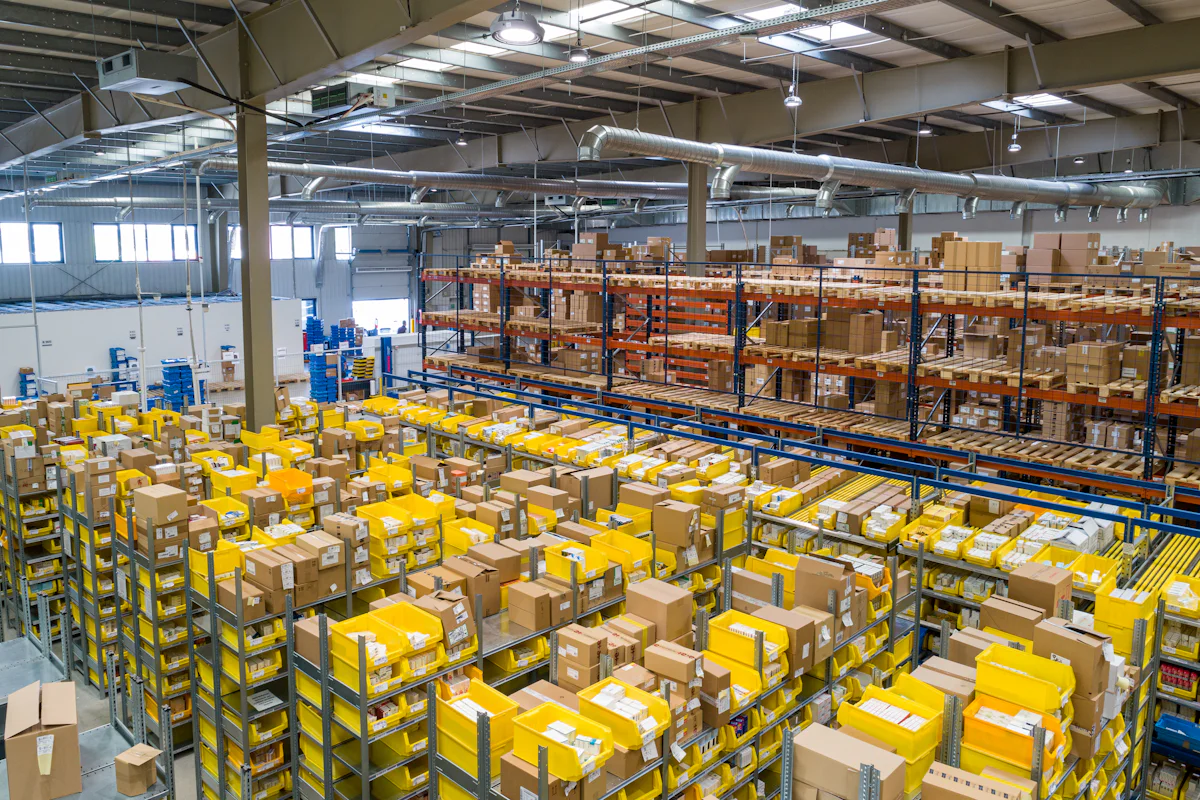
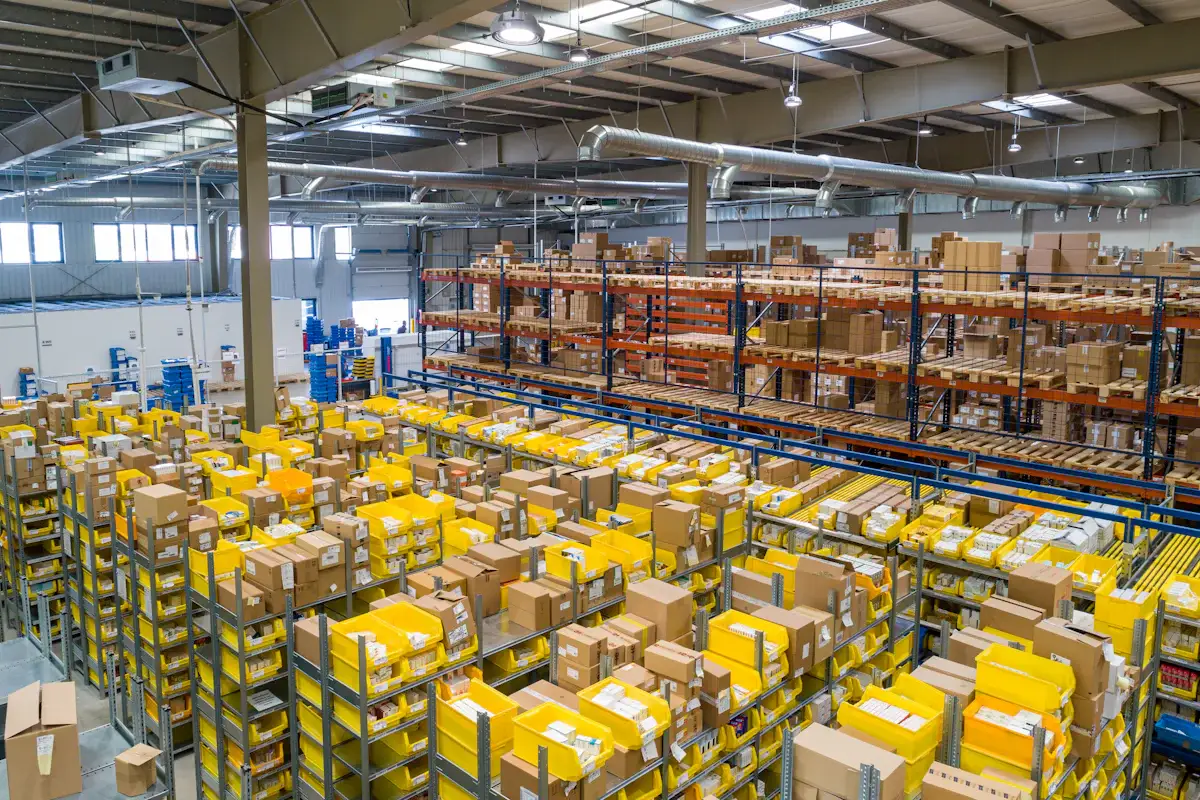
perf: cut LCP/render-blocking weight from third-party JS and images
- Defer Google Tag Manager until after load/idle instead of firing at
  the top of <head>, so it stops competing with the hero image and
  critical CSS for bandwidth on first paint.
- Merge the Home route's two separate Google Places cache reads
  (reviews + rating) into one.
- Recompress the hero and tentang-operasional WebP images (quality was
  far higher than needed for photos hidden behind a dark overlay) and
  right-size the navbar logo, cutting hero payload by ~30-45%.
- Cap ImageConverter's upload resize width per field instead of a
  single global 1600px, and lower Advantages card uploads to 1300px
  (roughly 2x their ~651px display width) — the cards were shipping
  1600px-wide photos PageSpeed flagged as the single biggest transfer
  hog on the page.

diff --git a/resources/js/Pages/Home.jsx b/resources/js/Pages/Home.jsx
@@ -12,22 +12,13 @@ import {
   FaqSkeleton,
 } from "../Components/Skeletons/SectionSkeletons";
 
-// Below-fold sections are lazy-loaded so they don't block initial render.
-// motion (RotatingText) and Three.js are excluded from the
-// critical bundle this way — only downloaded after the hero is painted.
 const ScrollReveal = lazy(() => import("../Components/ReactBits/ScrollReveal"));
 const AboutSection = lazy(() => import("../Components/Sections/About"));
-const AdvantagesSection = lazy(
-  () => import("../Components/Sections/Advantages"),
-);
+const AdvantagesSection = lazy(() => import("../Components/Sections/Advantages"));
 const ServicesSection = lazy(() => import("../Components/Sections/Services"));
-const ProcessTimeline = lazy(
-  () => import("../Components/Sections/ProcessTimeline"),
-);
+const ProcessTimeline = lazy(() => import("../Components/Sections/ProcessTimeline"));
 const CoverageMap = lazy(() => import("../Components/Sections/CoverageMap"));
-const TestimonialsSection = lazy(
-  () => import("../Components/Sections/Testimonials"),
-);
+const TestimonialsSection = lazy(() => import("../Components/Sections/Testimonials"));
 const FaqSection = lazy(() => import("../Components/Sections/FAQ"));
 
 export default function Home({
@@ -58,11 +49,10 @@ export default function Home({
               textClassName="text-navy"
               wordAnimationEnd="bottom center"
             >
-              ATTA Cargo hadir sebagai mitra penerusan barang dan last mile
-              distribution terpercaya, dengan hub utama di Banjarmasin
-              menjangkau seluruh Kalimantan Selatan & Tengah. Kami berkomitmen
-              menghadirkan distribusi yang cepat, aman, dan terpantau — solusi
-              logistik terpercaya agar bisnis Anda tumbuh kuat bersama.
+              ATTA Cargo hadir sebagai mitra penerusan barang dan last mile distribution terpercaya,
+              dengan hub utama di Banjarmasin menjangkau seluruh Kalimantan Selatan & Tengah. Kami
+              berkomitmen menghadirkan distribusi yang cepat, aman, dan terpantau. Solusi logistik
+              terpercaya agar bisnis Anda tumbuh kuat bersama.
             </ScrollReveal>
           </Suspense>
         </div>

diff --git a/app/Filament/Resources/Advantages/AdvantageResource.php b/app/Filament/Resources/Advantages/AdvantageResource.php
@@ -22,103 +22,103 @@ use Illuminate\Support\Str;
 
 class AdvantageResource extends Resource
 {
-	protected static ?string $model = Advantage::class;
+    protected static ?string $model = Advantage::class;
 
-	protected static string|\BackedEnum|null $navigationIcon = 'heroicon-o-star';
+    protected static string|\BackedEnum|null $navigationIcon = 'heroicon-o-star';
 
-	protected static ?string $navigationLabel = 'Keunggulan';
+    protected static ?string $navigationLabel = 'Keunggulan';
 
-	protected static ?string $modelLabel = 'Keunggulan';
+    protected static ?string $modelLabel = 'Keunggulan';
 
-	protected static ?string $pluralModelLabel = 'Keunggulan';
+    protected static ?string $pluralModelLabel = 'Keunggulan';
 
-	protected static ?int $navigationSort = 2;
+    protected static ?int $navigationSort = 2;
 
-	public static function form(Schema $schema): Schema
-	{
-		return $schema->schema([
-			Section::make('Informasi Keunggulan')
-				->schema([
-					TextInput::make('title')
-						->label('Judul')
-						->required()
-						->maxLength(255)
-						->placeholder('Contoh: Lokasi Strategis')
-						->live(onBlur: true)
-						->afterStateUpdated(fn($state, callable $set) => $set('slug', Str::slug($state))),
+    public static function form(Schema $schema): Schema
+    {
+        return $schema->schema([
+            Section::make('Informasi Keunggulan')
+                ->schema([
+                    TextInput::make('title')
+                        ->label('Judul')
+                        ->required()
+                        ->maxLength(255)
+                        ->placeholder('Contoh: Lokasi Strategis')
+                        ->live(onBlur: true)
+                        ->afterStateUpdated(fn ($state, callable $set) => $set('slug', Str::slug($state))),
 
-					TextInput::make('slug')
-						->hidden()
-						->dehydrated(),
+                    TextInput::make('slug')
+                        ->hidden()
+                        ->dehydrated(),
 
-					RichEditor::make('description')
-						->label('Deskripsi')
-						->required()
-						->toolbarButtons(['bold', 'italic', 'bulletList', 'orderedList'])
-						->extraInputAttributes(['style' => 'min-height: 14rem'])
-						->columnSpanFull(),
+                    RichEditor::make('description')
+                        ->label('Deskripsi')
+                        ->required()
+                        ->toolbarButtons(['bold', 'italic', 'bulletList', 'orderedList'])
+                        ->extraInputAttributes(['style' => 'min-height: 14rem'])
+                        ->columnSpanFull(),
 
-					WebpImageUpload::make('image_url', 'advantages')
-						->columnSpanFull(),
+                    WebpImageUpload::make('image_url', 'advantages', maxWidth: 1300)
+                        ->columnSpanFull(),
 
-					Toggle::make('is_active')
-						->label('Aktif')
-						->default(true)
-						->inline(false),
-				])->columnSpanFull(),
-		]);
-	}
+                    Toggle::make('is_active')
+                        ->label('Aktif')
+                        ->default(true)
+                        ->inline(false),
+                ])->columnSpanFull(),
+        ]);
+    }
 
-	public static function table(Table $table): Table
-	{
-		return $table
-			->columns([
-				TextColumn::make('sort_order')
-					->label('#')
-					->sortable()
-					->width(50),
+    public static function table(Table $table): Table
+    {
+        return $table
+            ->columns([
+                TextColumn::make('sort_order')
+                    ->label('#')
+                    ->sortable()
+                    ->width(50),
 
-				TextColumn::make('title')
-					->label('Judul')
-					->searchable()
-					->sortable(),
+                TextColumn::make('title')
+                    ->label('Judul')
+                    ->searchable()
+                    ->sortable(),
 
-				TextColumn::make('description')
-					->label('Deskripsi')
-					->limit(60)
-					->formatStateUsing(fn($state) => strip_tags($state)),
+                TextColumn::make('description')
+                    ->label('Deskripsi')
+                    ->limit(60)
+                    ->formatStateUsing(fn ($state) => strip_tags($state)),
 
-				IconColumn::make('is_active')
-					->label('Aktif')
-					->boolean(),
+                IconColumn::make('is_active')
+                    ->label('Aktif')
+                    ->boolean(),
 
-				TextColumn::make('updated_at')
-					->label('Diperbarui')
-					->dateTime('d M Y H:i')
-					->sortable(),
-			])
-			->defaultSort('sort_order')
-			->filters([
-				TernaryFilter::make('is_active')->label('Status Aktif'),
-			])
-			->recordActions([
-				EditAction::make(),
-				DeleteAction::make(),
-			])
-			->toolbarActions([
-				BulkActionGroup::make([
-					DeleteBulkAction::make(),
-				]),
-			])
-			->reorderable('sort_order');
-	}
+                TextColumn::make('updated_at')
+                    ->label('Diperbarui')
+                    ->dateTime('d M Y H:i')
+                    ->sortable(),
+            ])
+            ->defaultSort('sort_order')
+            ->filters([
+                TernaryFilter::make('is_active')->label('Status Aktif'),
+            ])
+            ->recordActions([
+                EditAction::make(),
+                DeleteAction::make(),
+            ])
+            ->toolbarActions([
+                BulkActionGroup::make([
+                    DeleteBulkAction::make(),
+                ]),
+            ])
+            ->reorderable('sort_order');
+    }
 
-	public static function getPages(): array
-	{
-		return [
-			'index' => Pages\ListAdvantages::route('/'),
-			'create' => Pages\CreateAdvantage::route('/create'),
-			'edit' => Pages\EditAdvantage::route('/{record}/edit'),
-		];
-	}
+    public static function getPages(): array
+    {
+        return [
+            'index' => Pages\ListAdvantages::route('/'),
+            'create' => Pages\CreateAdvantage::route('/create'),
+            'edit' => Pages\EditAdvantage::route('/{record}/edit'),
+        ];
+    }
 }

diff --git a/app/Services/ImageConverter.php b/app/Services/ImageConverter.php
@@ -10,7 +10,7 @@ use Illuminate\Support\Str;
 class ImageConverter
 {
     /**
-     * Maximum width (in pixels) for stored images. Larger images are scaled down.
+     * Default maximum width (in pixels) for stored images. Larger images are scaled down.
      */
     private const MAX_WIDTH = 1600;
 
@@ -24,8 +24,12 @@ class ImageConverter
      *
      * Returns the stored relative path (e.g. "services/abc.webp"). If the file
      * cannot be decoded as an image, it is stored as-is as a safe fallback.
+     *
+     * $maxWidth should match roughly 2x the widest the image is ever rendered at
+     * (retina headroom) — not the source photo's native resolution, otherwise
+     * the browser downloads far more bytes than the layout can ever show.
      */
-    public static function toWebp(UploadedFile $file, string $directory): string
+    public static function toWebp(UploadedFile $file, string $directory, ?int $maxWidth = null): string
     {
         $directory = trim($directory, '/');
 
@@ -35,7 +39,7 @@ class ImageConverter
             return $file->store($directory, 'public');
         }
 
-        $image = self::scaleDown($image);
+        $image = self::scaleDown($image, $maxWidth ?? self::MAX_WIDTH);
 
         ob_start();
         imagewebp($image, null, self::QUALITY);
@@ -73,16 +77,16 @@ class ImageConverter
         return $image instanceof GdImage ? $image : null;
     }
 
-    private static function scaleDown(GdImage $image): GdImage
+    private static function scaleDown(GdImage $image, int $maxWidth): GdImage
     {
         $width = imagesx($image);
         $height = imagesy($image);
 
-        if ($width <= self::MAX_WIDTH) {
+        if ($width <= $maxWidth) {
             return $image;
         }
 
-        $newWidth = self::MAX_WIDTH;
+        $newWidth = $maxWidth;
         $newHeight = (int) round($height * ($newWidth / $width));
 
         $resized = imagecreatetruecolor($newWidth, $newHeight);

diff --git a/resources/views/app.blade.php b/resources/views/app.blade.php
@@ -4,20 +4,31 @@
 <head>
   <!-- Google Tag Manager -->
   <script>
-    (function(w, d, s, l, i) {
-      w[l] = w[l] || [];
-      w[l].push({
-        'gtm.start': new Date().getTime(),
-        event: 'gtm.js'
-      });
-      var f = d.getElementsByTagName(s)[0],
-        j = d.createElement(s),
-        dl = l != 'dataLayer' ? '&l=' + l : '';
+    window.dataLayer = window.dataLayer || [];
+    window.dataLayer.push({
+      'gtm.start': new Date().getTime(),
+      event: 'gtm.js'
+    });
+
+    // Deferred until the page is idle/loaded so GTM's request doesn't compete
+    // with the LCP image and critical CSS for bandwidth on the initial load.
+    function loadGtm() {
+      var f = document.getElementsByTagName('script')[0],
+        j = document.createElement('script');
       j.async = true;
-      j.src =
-        'https://www.googletagmanager.com/gtm.js?id=' + i + dl;
+      j.src = 'https://www.googletagmanager.com/gtm.js?id=GTM-MRNC9C4X&l=dataLayer';
       f.parentNode.insertBefore(j, f);
-    })(window, document, 'script', 'dataLayer', 'GTM-MRNC9C4X');
+    }
+
+    if (document.readyState === 'complete') {
+      loadGtm();
+    } else {
+      window.addEventListener('load', function() {
+        ('requestIdleCallback' in window) ? requestIdleCallback(loadGtm, {
+          timeout: 4000
+        }) : setTimeout(loadGtm, 1);
+      });
+    }
   </script>
   <!-- End Google Tag Manager -->
 

diff --git a/app/Filament/Forms/Components/WebpImageUpload.php b/app/Filament/Forms/Components/WebpImageUpload.php
@@ -11,8 +11,12 @@ class WebpImageUpload
     /**
      * A pre-configured image upload field that compresses every uploaded image
      * and converts it to WebP before storing it on the public disk.
+     *
+     * $maxWidth caps the stored image at ~2x the widest it's ever displayed
+     * (retina headroom); pass it when the field's display context is much
+     * narrower than the service-wide default (see ImageConverter::toWebp()).
      */
-    public static function make(string $name, string $directory, string $label = 'Gambar'): FileUpload
+    public static function make(string $name, string $directory, string $label = 'Gambar', ?int $maxWidth = null): FileUpload
     {
         return FileUpload::make($name)
             ->label($label)
@@ -25,7 +29,7 @@ class WebpImageUpload
             ->imagePreviewHeight('150')
             ->helperText('Unggah gambar (JPG, PNG, WebP). Akan otomatis dikompres & diubah ke format WebP.')
             ->saveUploadedFileUsing(
-                fn (TemporaryUploadedFile $file): string => ImageConverter::toWebp($file, $directory)
+                fn (TemporaryUploadedFile $file): string => ImageConverter::toWebp($file, $directory, $maxWidth)
             );
     }
 }

diff --git a/app/Services/GooglePlacesService.php b/app/Services/GooglePlacesService.php
@@ -52,6 +52,26 @@ class GooglePlacesService
     }
 
     /**
+     * Reviews + rating in one call, so callers needing both don't pay for two
+     * separate cache/lock round trips (see getReviews()/getRating() above).
+     *
+     * @return array{reviews: array<int, array{name: string, avatar: string|null, rating: int, text: string, date: string}>, rating: array{rating: mixed, total: mixed}|null}
+     */
+    public function getReviewsAndRating(): array
+    {
+        if (! $this->apiKey || ! $this->dataId) {
+            return ['reviews' => $this->store->read(), 'rating' => null];
+        }
+
+        $data = $this->getData();
+
+        return [
+            'reviews' => $this->store->sync($data['reviews'] ?? []),
+            'rating' => $data['rating'] ?? null,
+        ];
+    }
+
+    /**
      * Ambil data review dengan pola stale-while-revalidate + lock.
      *
      * Cache disimpan tanpa kadaluarsa; kesegaran dikontrol lewat `fetched_at`.

diff --git a/routes/web.php b/routes/web.php
@@ -38,13 +38,14 @@ Route::get('/', function () {
         apiKey: config('services.google_places.key', ''),
         dataId: config('services.google_places.place_id', ''),
     );
+    $placesData = $places->getReviewsAndRating();
 
     return Inertia::render('Home', [
         'services' => $services,
         'advantages' => $advantages,
         'coverageRegions' => $coverageRegions,
-        'reviews' => $places->getReviews(),
-        'googleRating' => $places->getRating(),
+        'reviews' => $placesData['reviews'],
+        'googleRating' => $placesData['rating'],
     ])->withViewData(['seo' => array_merge(
         pageSeo(
             'Jasa Ekspedisi & Cargo Kalimantan Terpercaya',
